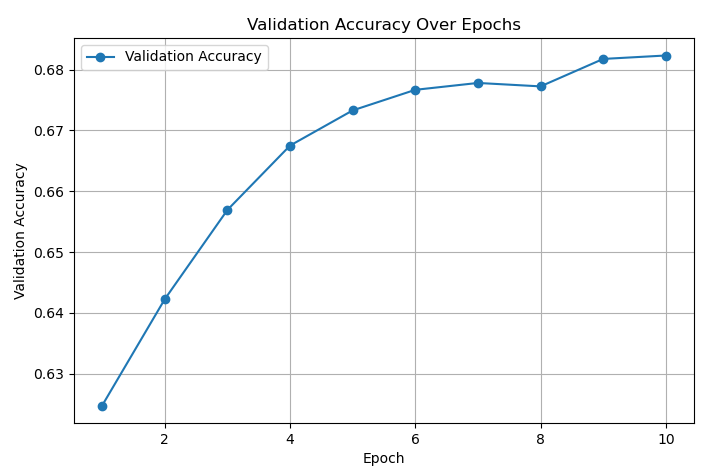
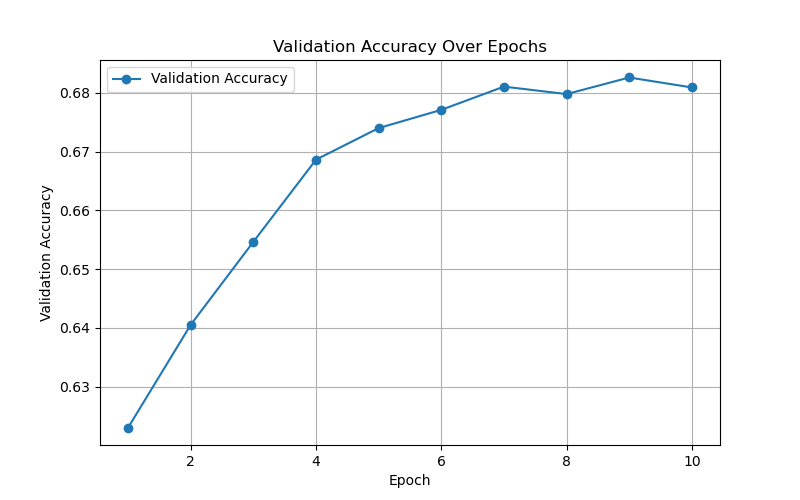
Added code to track training loss

diff --git a/neural_network.py b/neural_network.py
@@ -106,6 +106,7 @@ def train(model, lr, lamb, train_data, zero_train_data, valid_data, num_epoch):
     num_student = train_data.shape[0]
 
     valid_accs = []
+    train_losses = []
 
     for epoch in range(0, num_epoch):
         train_loss = 0.0
@@ -132,12 +133,13 @@ def train(model, lr, lamb, train_data, zero_train_data, valid_data, num_epoch):
 
         valid_acc = evaluate(model, zero_train_data, valid_data)
         valid_accs.append(valid_acc)
+        train_losses.append(train_loss)
         print(
             "Epoch: {} \tTraining Cost: {:.6f}\t " "Valid Acc: {}".format(
                 epoch, train_loss, valid_acc
             )
         )
-    return valid_accs
+    return train_losses, valid_accs
     #####################################################################
     #                       END OF YOUR CODE                            #
     #####################################################################
@@ -207,7 +209,7 @@ def main():
     num_epoch = 10
     lamb = 0
 
-    # valid_accs = train(model, lr, lamb, train_matrix, zero_train_matrix, valid_data, num_epoch)
+    # train_losses, valid_accs = train(model, lr, lamb, train_matrix, zero_train_matrix, valid_data, num_epoch)
     # epochs = list(range(1, num_epoch + 1))
 
     # plt.figure(figsize=(8, 5))
@@ -215,6 +217,15 @@ def main():
     # plt.title('Validation Accuracy Over Epochs')
     # plt.xlabel('Epoch')
     # plt.ylabel('Validation Accuracy')
+    # plt.grid(True)
+    # plt.legend()
+    # plt.show()
+
+    # plt.figure(figsize=(8, 5))
+    # plt.plot(epochs, train_losses, marker='o', linestyle='-', label='Train Losses')
+    # plt.title('Training Loss Over Epochs')
+    # plt.xlabel('Epoch')
+    # plt.ylabel('Training Accuracy')
     # plt.grid(True)
     # plt.legend()
     # plt.show()
